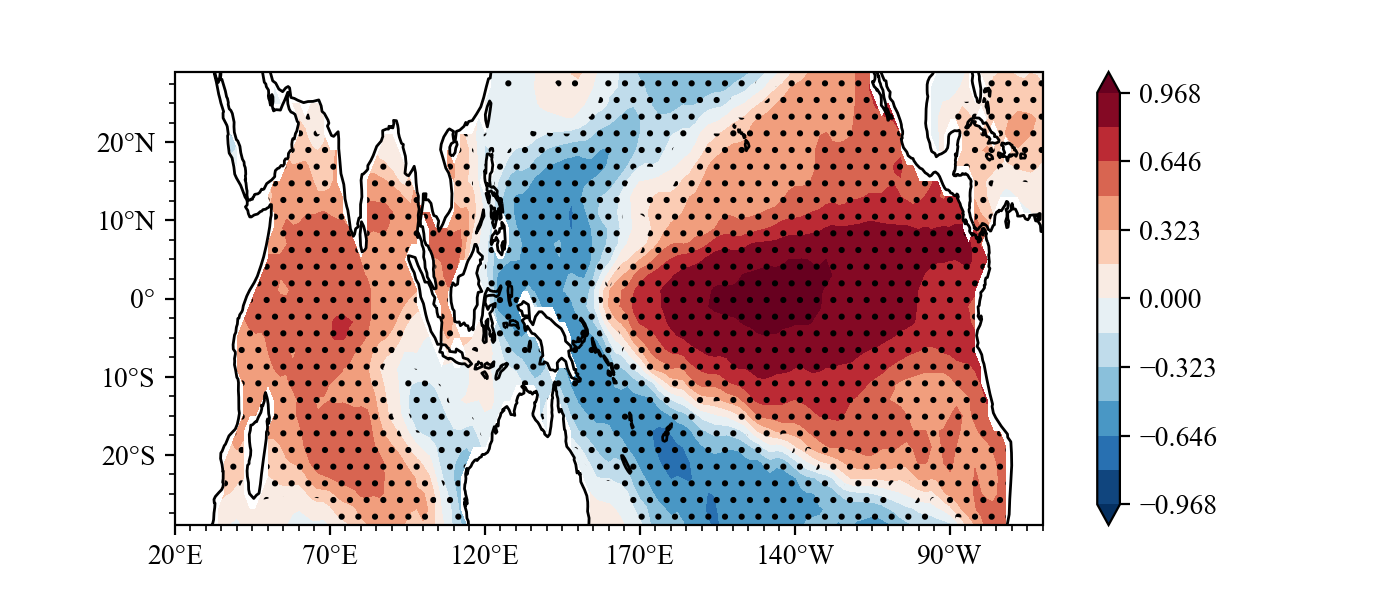
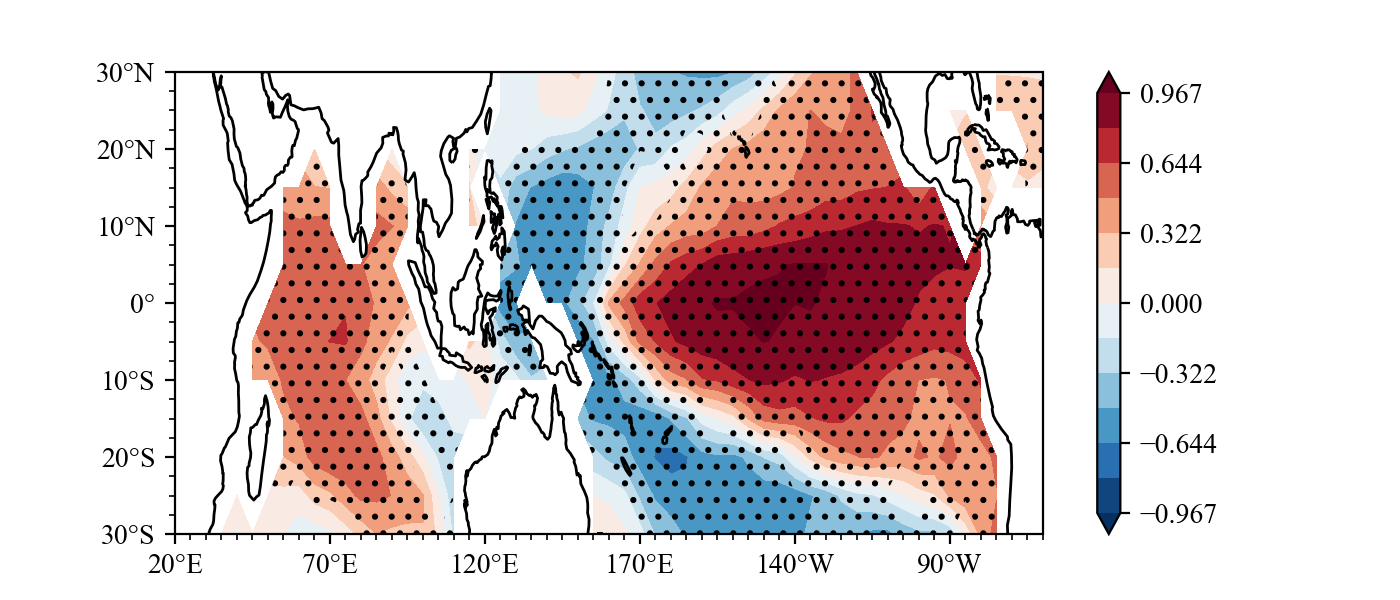
mask

diff --git a/sacpy/Util.py b/sacpy/Util.py
@@ -101,7 +101,7 @@ def _correct_type0(data, dtype=np.float64):
         data1 = data
         dims = None
         coords = None
-    return data1,dims,coords
+    return data1, dims, coords
 
 
 def _correct_type(data, dtype=np.float64):
@@ -164,7 +164,7 @@ def gradient_da(da, dim, method=0, delta=None):
         dim_coord1 = dim_coord[2:]
         dim_coord2 = dim_coord[:-2]
     m_coord = (dim_coord1.to_numpy() + dim_coord2.to_numpy()) / 2
-    # 没写完
+    # have finished
     if delta is None:
         # delta_dim = {"lon":111e3,"lat":111e3,"level":5}
         if dim == "lat":
@@ -179,3 +179,34 @@ def gradient_da(da, dim, method=0, delta=None):
     da2 = da.loc[{dim: dim_coord2}].assign_coords({dim: m_coord})
     diff = (da1 - da2) / delta
     return diff
+
+
+def shp_mask(shp, Dataarray: xr.DataArray, lat='lat', lon='lon'):
+    """
+    Args:
+        shp (geopandas.geodataframe.GeoDataFrame): shp geodata
+        Dataarray (xr.DataArray): data 
+        lat (str): y-axis name
+        lon (str): x-axis name
+
+    Returns:
+        masked data
+    """
+    try:
+        import geopandas as gpd
+    except ImportError:
+        raise ImportError("Can't import geopandas, please install through conda or pip")
+    try:
+        import rioxarray
+    except ImportError:
+        raise ImportError("Can't import rioxarray, please install through conda or pip")
+    try:
+        from shapely.geometry import mapping
+    except ImportError:
+        raise ImportError("Can't import shapely, please install through conda or pip")
+
+    Dataarray = Dataarray.copy()
+    Dataarray.rio.write_crs("epsg:4326", inplace=True)
+    Dataarray.rio.set_spatial_dims(x_dim=lat, y_dim=lon, inplace=True)
+    cliped = Dataarray.rio.clip(shp.geometry.apply(mapping), shp.crs, drop=False)
+    return cliped

diff --git a/sacpy/LinReg.py b/sacpy/LinReg.py
@@ -3,7 +3,7 @@ import numpy as np
 import xarray as xr
 from scipy.spatial.distance import cdist
 import scipy.stats as sts
-from .Util import _correct_type,_correct_type0
+from .Util import _correct_type, _correct_type0
 from copy import copy, deepcopy
 
 EPS = 1e-6
@@ -39,8 +39,8 @@ class LinReg:
         #     y = np.array(y)
         x, xdims, xcoords = _correct_type0(x)
         y, ydims, ycoords = _correct_type0(y)
-        # self.xdims, self.xcoords = xdims, xcoords
-        # self.ydims, self.ycoords = ydims, ycoords
+        self.xdims, self.xcoords = xdims, xcoords
+        self.ydims, self.ycoords = ydims, ycoords
 
         # judge x.dim[0] and y.dim[0] length
         if x.shape[0] != y.shape[0]:
@@ -58,6 +58,17 @@ class LinReg:
             # slope = gen_dataarray(slope, ycoords_m1)
         self.slope, self.intcpt, self.corr, self.p_value = \
             slope, intcpt, corr, p_value
+
+    def mask(self, threshold=0.05):
+        masked = [data.copy() for data in [self.slope, self.intcpt, self.corr]]
+        if self.ydims is not None and self.ycoords is not None:  # xarray term
+            for i in range(3):
+                masked[i] = xr.where(self.p_value <= threshold, masked[i], np.NAN)
+        else:  # numpy
+            for i in range(3):
+                masked[i][self.p_value > threshold] = np.NAN
+        self.slope1, self.intcpt1, self.corr1 = masked
+        self.masked = True
 
     def _repr_html_(self):
         """
@@ -151,7 +162,7 @@ class MultLinReg:
             self.slope, self.intcpt, self.R, self.pv_all, self.pv_i = multi_linreg(x, y)
         else:
             self.slope, self.intcpt, self.R, self.pv_all, self.pv_i = None, None, None, None
-        
+
         self.multi_corr = None
         self.part_corr = {}
 

diff --git a/CHANGELOG.md b/CHANGELOG.md
@@ -51,3 +51,8 @@ Add Map.py for test and new wrapper progress for Map.py and Linreg
 ## version 0.0.16
 
 Optimized support for xarray
+
+## version 0.0.17
+
+1. update mask function for LinReg 
+2. add shp mask function
